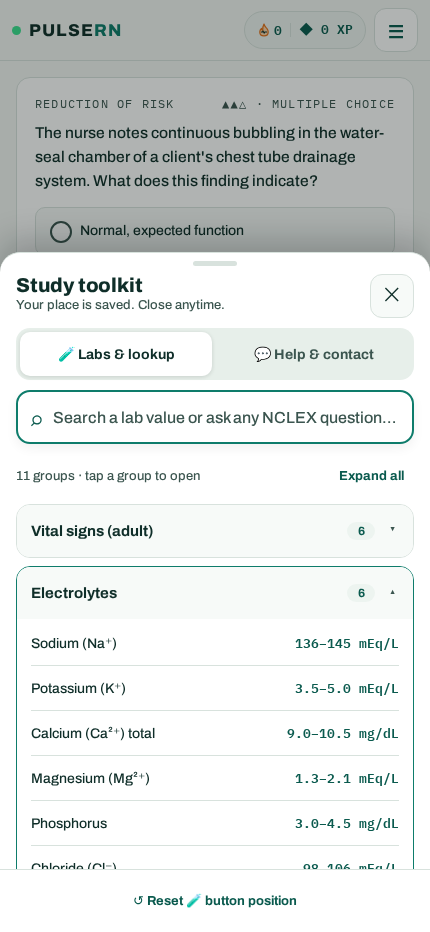
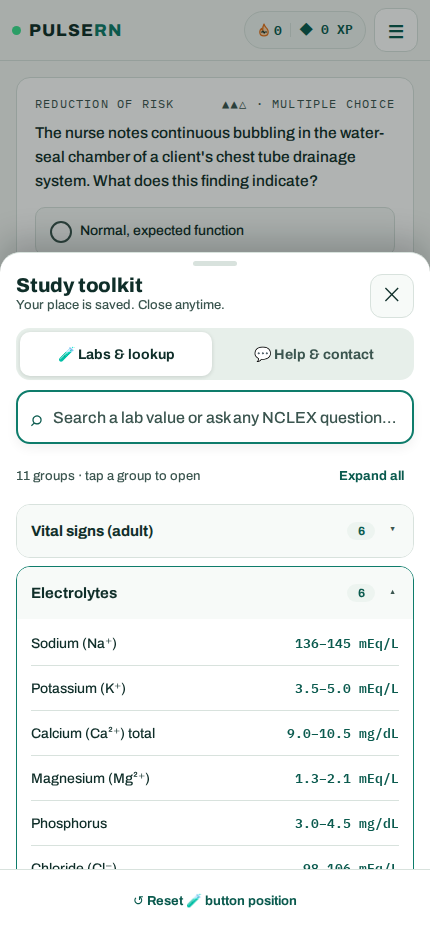
Publish the CI streak screenshots and close the follow-up review findings.
The published product images are the search-gate recapture so provenance matches CI's raster. The design-system docs record the approved orange streak-flame tokens (not caution amber). The Today screenshot alt now describes the shift and career cards. The unapplied 022 migration gains an insert policy on parked snapshots; the migration itself is still not applied.

Changed region(s): [[0.0907, 0.0933, 0.907, 0.2489], [0.0605, 0.5601, 0.3628, 0.5912]]

diff --git a/pulsern/tests/seo-guardian.test.js b/pulsern/tests/seo-guardian.test.js
@@ -859,7 +859,7 @@ describe("SEO guardian", () => {
     await Promise.all([fs.mkdir(publicDirectory), fs.mkdir(captureDirectory)]);
     const specs = [
       ["pulsern-adaptive-practice.png", 720, 620, "PulseRN adaptive NCLEX practice screen with one question, four answer choices, and the control to check the answer", "Authentic adaptive NCLEX practice with answer-first review."],
-      ["pulsern-today-dashboard.png", 720, 1280, "PulseRN Today dashboard showing the daily round, candidate monitor, study goal, and progress cards", "A daily plan without guesswork"],
+      ["pulsern-today-dashboard.png", 720, 1280, "PulseRN Today dashboard showing the daily round, candidate monitor, Today shift, and clinical career cards", "A daily plan without guesswork"],
       ["pulsern-lab-reference.png", 430, 932, "PulseRN mobile lab-reference drawer open over an adaptive practice question", "Lab reference at your fingertips"],
     ];
     const images = [];
@@ -918,7 +918,7 @@ describe("SEO guardian", () => {
     await Promise.all([fs.mkdir(publicDirectory), fs.mkdir(captureDirectory)]);
     const specs = [
       ["pulsern-adaptive-practice.png", 720, 620, "PulseRN adaptive NCLEX practice screen with one question, four answer choices, and the control to check the answer", "Authentic adaptive NCLEX practice with answer-first review."],
-      ["pulsern-today-dashboard.png", 720, 1280, "PulseRN Today dashboard showing the daily round, candidate monitor, study goal, and progress cards", "A daily plan without guesswork"],
+      ["pulsern-today-dashboard.png", 720, 1280, "PulseRN Today dashboard showing the daily round, candidate monitor, Today shift, and clinical career cards", "A daily plan without guesswork"],
       ["pulsern-lab-reference.png", 430, 932, "PulseRN mobile lab-reference drawer open over an adaptive practice question", "Lab reference at your fingertips"],
     ];
     const images = [];

diff --git a/pulsern/index.html b/pulsern/index.html
@@ -220,7 +220,7 @@
           <figcaption>Authentic adaptive NCLEX practice with answer-first review.</figcaption>
         </figure>
         <figure style="margin:1.25rem 0">
-          <img src="/product/pulsern-today-dashboard.png" alt="PulseRN Today dashboard showing the daily round, candidate monitor, study goal, and progress cards" width="720" height="1280" loading="lazy" style="display:block;width:100%;height:auto;border-radius:0.75rem" />
+          <img src="/product/pulsern-today-dashboard.png" alt="PulseRN Today dashboard showing the daily round, candidate monitor, Today shift, and clinical career cards" width="720" height="1280" loading="lazy" style="display:block;width:100%;height:auto;border-radius:0.75rem" />
           <figcaption>A daily plan without guesswork. See due flashcards, adaptive questions, study progress, and the next focused action in one place.</figcaption>
         </figure>
         <figure style="margin:1.25rem 0">

diff --git a/pulsern/src/landing.jsx b/pulsern/src/landing.jsx
@@ -209,7 +209,7 @@ export default function LandingPage({ onSignIn, onStart }) {
             </div>
             <div className="land-screen-grid">
               <figure className="land-screen">
-                <img src="/product/pulsern-today-dashboard.png" width="720" height="1280" loading="lazy" alt="PulseRN Today dashboard showing the daily round, candidate monitor, study goal, and progress cards" />
+                <img src="/product/pulsern-today-dashboard.png" width="720" height="1280" loading="lazy" alt="PulseRN Today dashboard showing the daily round, candidate monitor, Today shift, and clinical career cards" />
                 <figcaption><strong>A daily plan without guesswork</strong> See due flashcards, adaptive questions, study progress, and the next focused action in one place.</figcaption>
               </figure>
               <figure className="land-screen">

diff --git a/pulsern/tests/revision-guard-sql.test.js b/pulsern/tests/revision-guard-sql.test.js
@@ -166,7 +166,7 @@ describe("revision-less saves wait for the client merge", () => {
     const locked = await db.query(`select relrowsecurity from pg_class where oid = 'public.progress_pending_merge'::regclass`);
     expect(locked.rows[0].relrowsecurity).toBe(true);
     const names = policies.rows.map((policy) => `${policy.polname}:${policy.polcmd}`).sort();
-    expect(names).toEqual(expect.arrayContaining(["pending_merge_select:r", "pending_merge_delete:d"]));
+    expect(names).toEqual(expect.arrayContaining(["pending_merge_select:r", "pending_merge_delete:d", "pending_merge_insert:a"]));
     const defs = await db.query(`select pg_get_expr(polqual, polrelid) as expr from pg_policy where polrelid = 'public.progress_pending_merge'::regclass`);
     expect(defs.rows.map((policy) => policy.expr).join("\n")).toMatch(/auth\.uid\(\)/);
   });

diff --git a/pulsern/src/App.jsx b/pulsern/src/App.jsx
@@ -3727,6 +3727,7 @@ export function Style() {
         --surface:#F7FAF8; --line:#D8E2DD; --bar-bg:#E7EFEA;
         --teal:#0E7C6B; --btn-ink:#FFFFFF; --accent-ink:#0A5A4E;
         --mon:#0C201D; --ecg:#3BE08F; --mon-track:#24433C;
+        /* Approved streak accent: orange flame, ink ECG. Not --amber (caution). */
         --streak-flame:#E2701A; --streak-flame-fill:#F8D2A8; --streak-ecg:var(--ink);
         --streak-flame-fill-on-mon:#5A3514; --streak-ecg-on-mon:#EAF1ED;
         --amber:#E9A23B; --coral:#D9503F; --danger-ink:#B23A2B;

diff --git a/pulsern/src/rewards-ui.jsx b/pulsern/src/rewards-ui.jsx
@@ -1,6 +1,6 @@
 /* Reward surfaces, drawn in the app's own language: the monitor motif,
    teal palette, Archivo + IBM Plex Mono, hand-drawn inline SVG. No emoji,
-   no clip-art, no new colors. Every animation is CSS and is switched off
+   no clip-art, no new colors except the approved streak-flame tokens. Every animation is CSS and is switched off
    by prefers-reduced-motion or the in-app "Reduce effects" setting
    (the .fx-reduced class on .app). */
 import React, { useCallback, useEffect, useRef, useState } from "react";

diff --git a/pulsern/CLAUDE.md b/pulsern/CLAUDE.md
@@ -3,7 +3,7 @@
 ## RN Edition guardrails (owner prompt pack, 2026-07-16)
 
 - Never remove, rename, or weaken an existing feature. Protected: one-tap Today round; adaptive difficulty; category interleaving; Review Misses; SRS flashcards with real calendar dates + type-before-flip; all 8 NGN item types; case studies with NCJMM flow; readiness exams with lockdown + never-repeat; XP/ranks/streak/shield; honest readiness estimate ("estimate" label, 12-answer minimum); light/dim themes; owner-only AI engine picker; store/askModel adapters; subscriptions + entitlements; SMS consent language; Terms/Privacy/disclaimer links; review console.
-- Design system: teal/green palette, coral only for incorrect/critical, amber only for caution, monitor motif, IBM Plex Mono for stats. No new colors, no stock photos — visuals are hand-drawn inline SVG in the app palette.
+- Design system: teal/green palette, coral only for incorrect/critical, amber only for caution, monitor motif, IBM Plex Mono for stats. No new colors, no stock photos — visuals are hand-drawn inline SVG in the app palette. Owner exception (2026-11-24): the streak mark is a flame with an ECG line; its colors are the theme tokens --streak-flame / --streak-flame-fill (orange) and --streak-ecg (ink). Do not reuse --amber, which stays reserved for caution.
 - Straight quotes in code. Accessibility: focus rings, reduced-motion, ≥4.5:1 contrast both themes.
 - Claims hygiene: compare, never equate ("like the real exam", never "same as"); readiness never promises outcomes; NCSBN trademark disclaimer stays in footer and app.
 - Owner amendment (standing, reaffirmed 2026-07-16): despite the pack's human-review framing, the ADVERSARIAL AI is the accuracy gate for ALL site content — questions, exams, cases, flashcards, images/visuals, and site copy (ops/audit-sweep.mjs, factory review passes, copy audits). Owner extension (2026-07-16, explicit order): QBank practice questions now ALSO publish through the adversarial gate at >=0.85 (content-factory --publish) so the bank can reach 3,000+ live items; the console keeps rejection authority. The owner-RN retains full rejection/oversight authority over everything; nothing unapproved reaches students.
